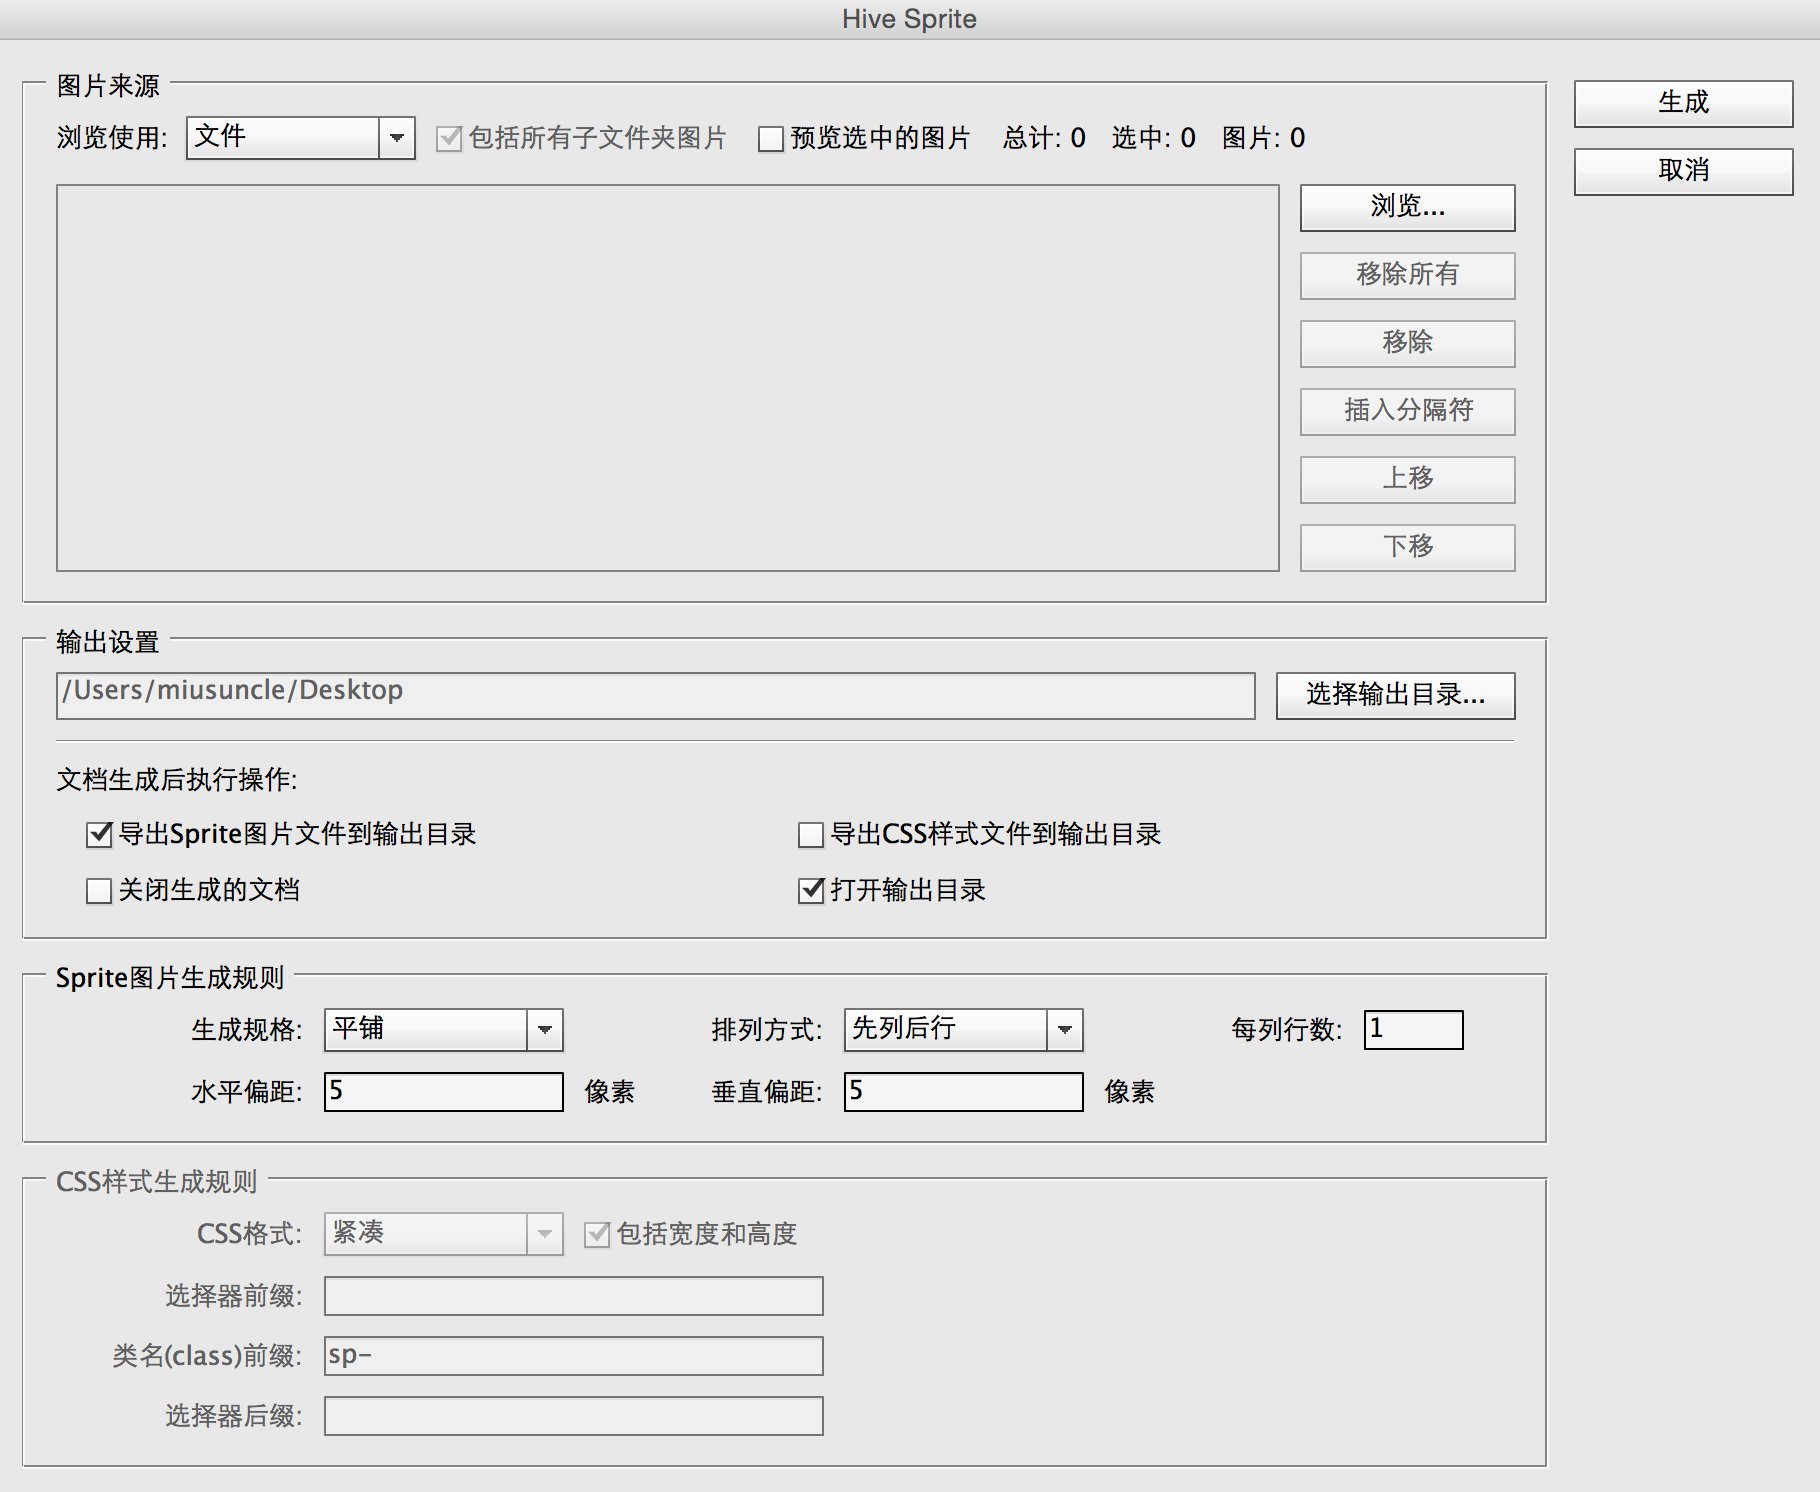
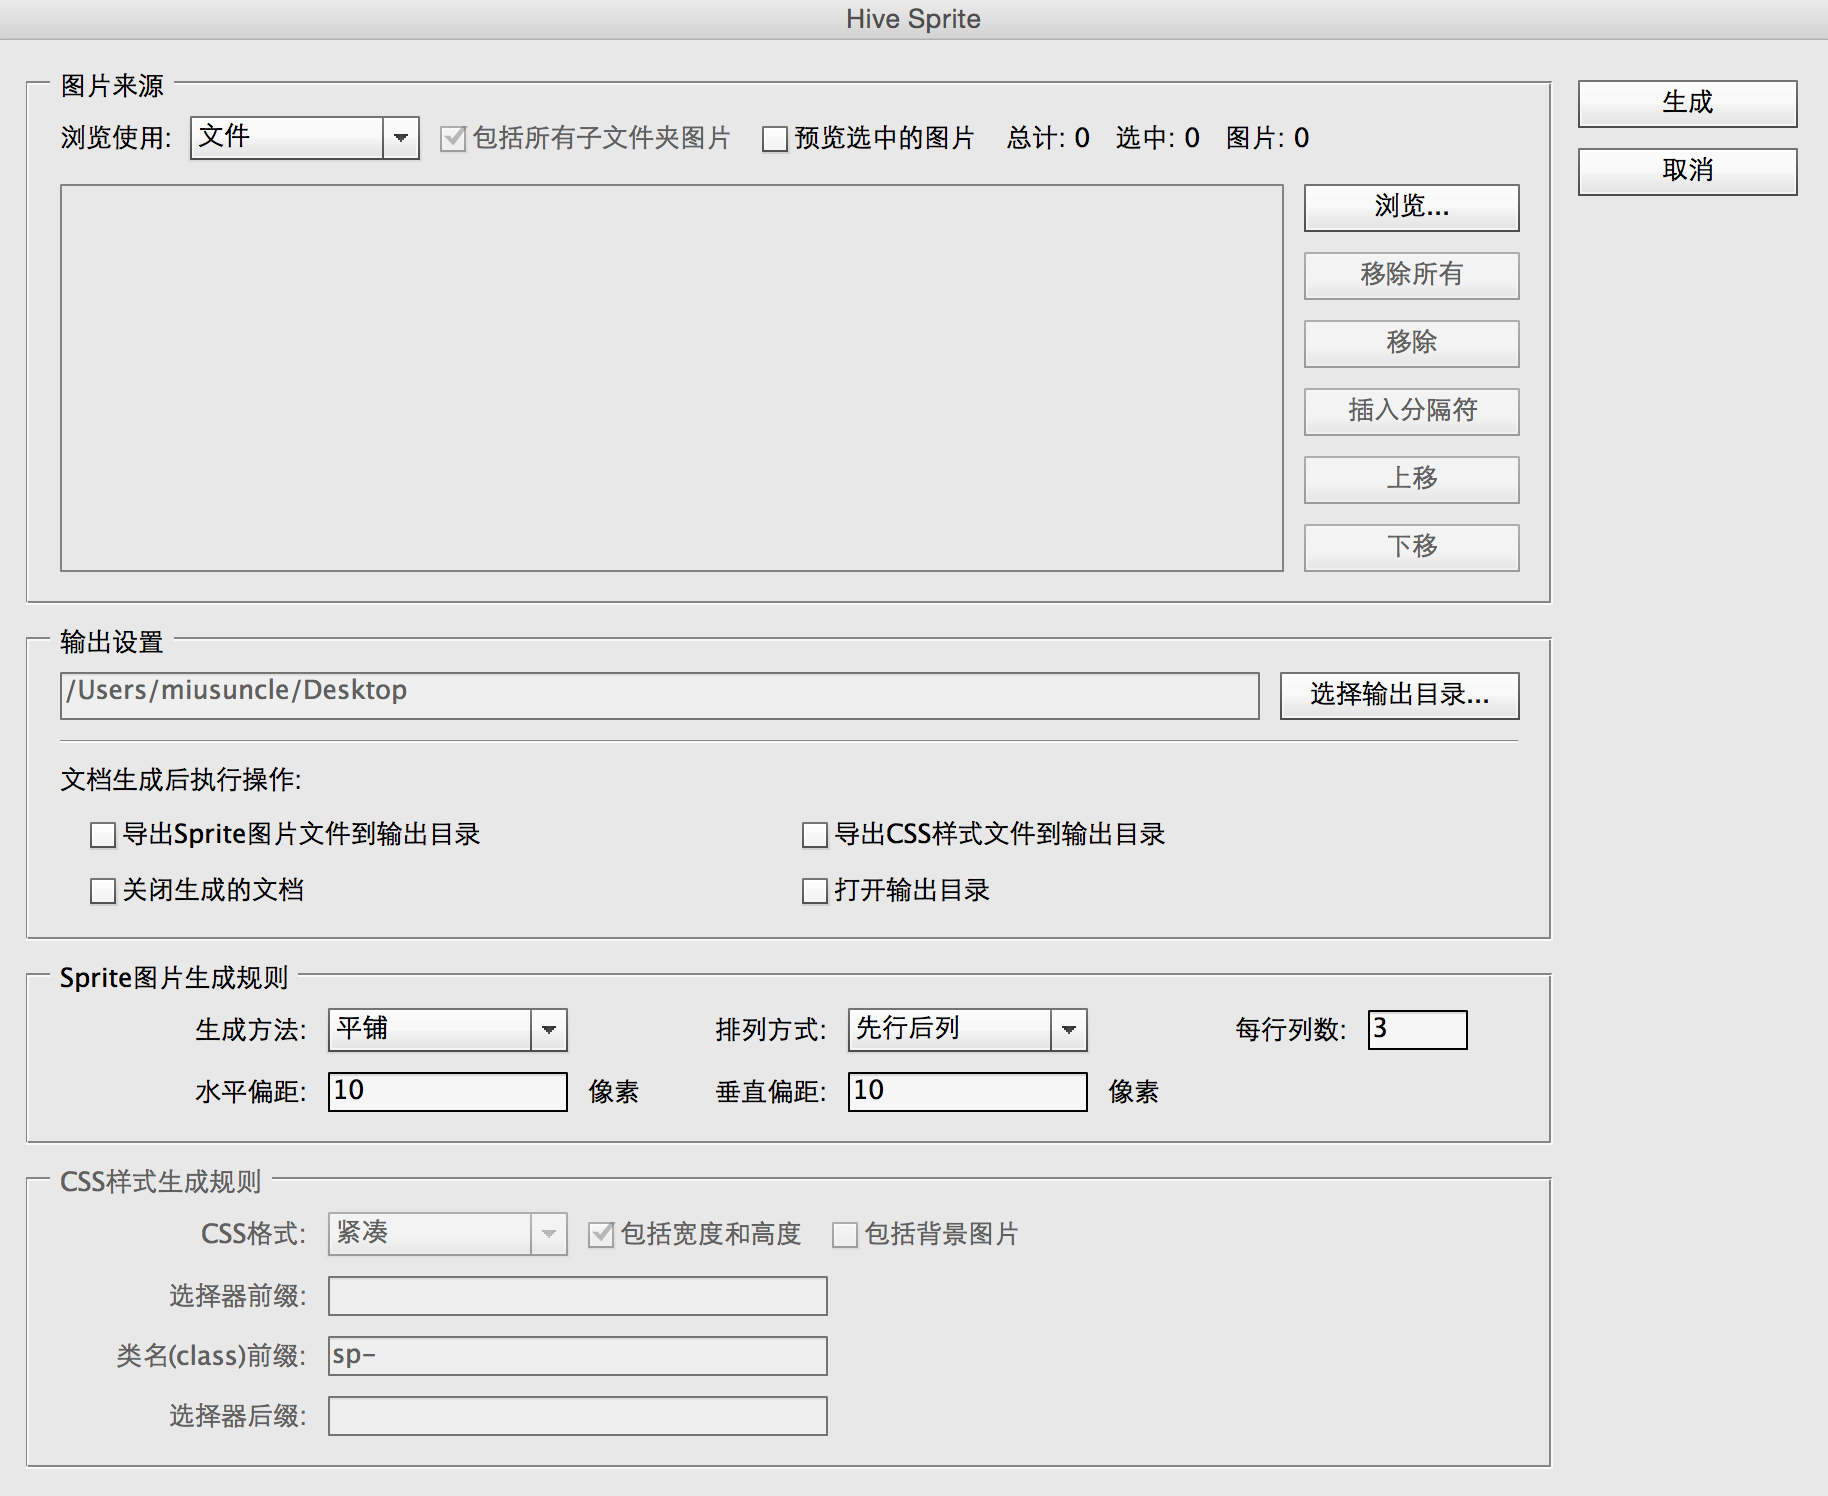
Update README.md

diff --git a/HiveSpriteOnly/config/i18n.jsx b/HiveSpriteOnly/config/i18n.jsx
@@ -21,7 +21,7 @@ var nls = {
     },
     GROUPED: {
       zh: '分隔符分组',
-      en: 'Divide By Seps.',
+      en: 'Divide By Seps.'
     },
     TILED: {
       zh: '平铺',
@@ -134,7 +134,7 @@ var nls = {
       en: 'Sprite Building Options'
     },
     BUILD_METHOD: {
-      zh: '生成规格: ',
+      zh: '生成方法: ',
       en: 'Building Method: '
     },
     ARRANGE_BY: {

diff --git a/README.md b/README.md
@@ -2,12 +2,16 @@
 
 An antique CSS Sprite Generator for modern photoshop.
 
-## Install
+## Installation
 
-Clone or download this repository into whatever directory, then copy the cloned(or unziped) repository into `<Photoshop Intallation Directory>/Preset/Scripts/`. Run photoshop(if phtoshop has been running, close and then rerun it), you will see one menu item appears as `File | Automate | Hive Sprite...`, and that's it.
+Clone or download this repository into whatever directory, then copy the entire cloned(or unziped) repository(Folder `HiveSprite-xxx`) into `<Photoshop Intallation Directory>/Preset/Scripts/`. Run photoshop(if phtoshop has been running, close and then re-run it), you will see one menu item appears as `File | Automate | Hive Sprite...`, and that's it.
+
+## Compatibility
+
+This scripting plugin works well with Photoshop CS6+.
 
 ## UI Preview
 
 ![This is a hive sprite ui preview image][preview]
 
-[preview]: assets/preview.png  "Hive Sprite UI Preiview"
+[preview]: assets/preview.png  "Hive Sprite UI Preview"
